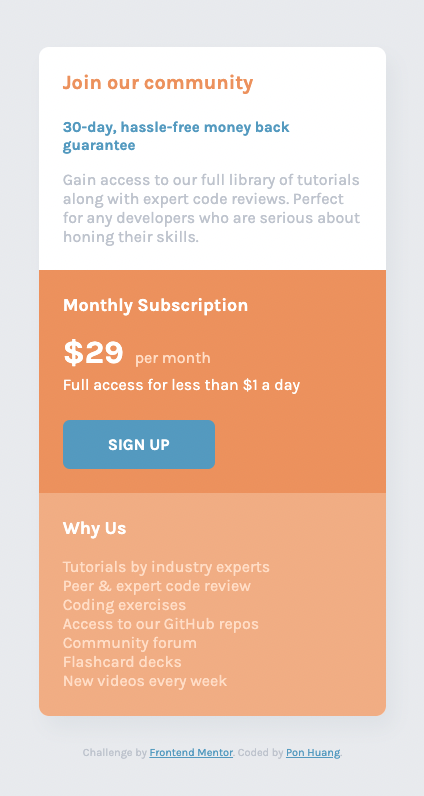
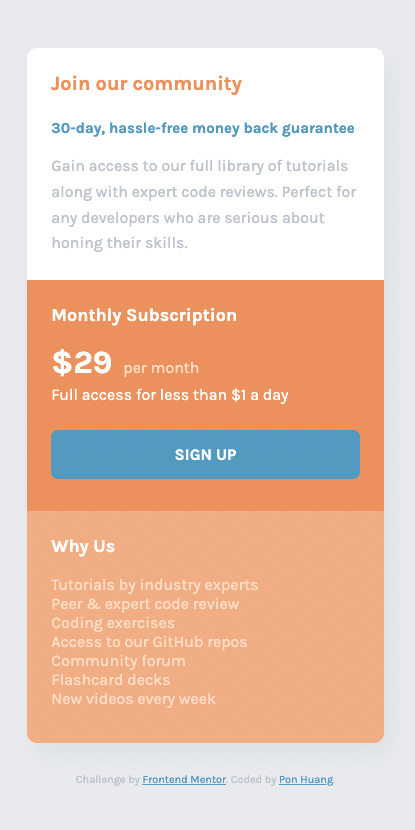
opstimization and btn

Changed region(s): [[0.0578, 0.0603, 0.9253, 0.9045], [0.1735, 0.9347, 0.8096, 0.9648]]

diff --git a/css/style.css b/css/style.css
@@ -76,7 +76,8 @@ body {
   margin-bottom: 1.1rem; }
 
 .description {
-  color: #c5cad3; }
+  color: #c5cad3;
+  line-height: 1.4; }
 
 .title {
   font-size: 1.8rem;
@@ -84,12 +85,14 @@ body {
   margin-bottom: 1.8rem; }
 
 .btn {
-  display: inline-block;
+  all: unset;
+  text-align: center;
+  width: 100%;
   border: none;
   color: #fff;
   text-transform: uppercase;
   background-color: #5fa4c8;
-  padding: 1.5rem 8rem;
+  padding: 1.5rem 0;
   border-radius: 7px;
   font-weight: 700;
   cursor: pointer;
@@ -104,7 +107,7 @@ body {
 /*---------- max-width 720px ----------*/
 @media screen and (max-width: 45em) {
   .container {
-    width: 50vw;
+    max-width: 70vw;
     grid-template-rows: repeat(3, 1fr); }
   .card {
     padding: 2.4rem; }
@@ -112,10 +115,10 @@ body {
       grid-column: 1 / -1; }
     .card:nth-child(3) {
       grid-column: 1 / -1; }
-  .btn {
-    padding: 1.5rem 4.5rem; }
   .heading-h1 {
     font-size: 2rem; }
   .subheading {
     font-size: 1.5rem;
-    margin-bottom: 1.6rem; } }
+    margin-bottom: 1.6rem; }
+  .description {
+    line-height: 1.6; } }

diff --git a/sass/_layout.scss b/sass/_layout.scss
@@ -1,5 +1,6 @@
 .container {
   max-width: 63.5rem;
+
   border-radius: 10px;
   background-color: #fff;
   box-shadow: 7px 12px 20px $color-gray-light-2;
@@ -71,6 +72,7 @@
 
 .description {
   color: $color-gray-light-1;
+  line-height: 1.4;
 }
 
 .title {
@@ -80,12 +82,14 @@
 }
 
 .btn {
-  display: inline-block;
+  all: unset;
+  text-align: center;
+  width: 100%;
   border: none;
   color: #fff;
   text-transform: uppercase;
   background-color: $color-secondary;
-  padding: 1.5rem 8rem;
+  padding: 1.5rem 0;
   border-radius: 7px;
   font-weight: $font-bold;
   cursor: pointer;
@@ -104,7 +108,7 @@
 /*---------- max-width 720px ----------*/
 @media screen and (max-width: 45em) {
   .container {
-    width: 50vw;
+    max-width: 70vw;
     grid-template-rows: repeat(3, 1fr);
   }
   .card {
@@ -118,10 +122,6 @@
     }
   }
 
-  .btn {
-    padding: 1.5rem 4.5rem;
-  }
-
   .heading-h1 {
     font-size: 2rem;
   }
@@ -130,5 +130,9 @@
     font-size: 1.5rem;
 
     margin-bottom: 1.6rem;
+  }
+
+  .description {
+    line-height: 1.6;
   }
 }

diff --git a/index.html b/index.html
@@ -37,7 +37,7 @@
           <h2 class="title">Monthly Subscription</h2>
           <p class="price"><strong> &dollar;29</strong>per month</p>
           <p class="condition">Full access for less than &dollar;1 a day</p>
-          <a class="btn">Sign Up</a>
+          <button class="btn">Sign Up</button>
         </section>
         <section class="card">
           <h2 class="title">Why Us</h2>

diff --git a/README.md b/README.md
@@ -63,7 +63,7 @@ Mobil
 }
 ```
 
-2. When I set grid columns / rows to 50%, and it has text overflow issue. (the content didn't stay inside the padding) Change the value to 1fr and it fixed this problem.
+2.) When I set grid columns / rows to 50%, and it has text overflow issue. (the content didn't stay inside the padding) Change the value to 1fr and it fixed this problem.
 
 ```css
 .container {
@@ -73,9 +73,14 @@ Mobil
 }
 ```
 
-### Continued development
+3.) Use all: unset to make the button works properly in desktop and mobile version. Also we need to give text-align property as well.
 
-Optimize mobile version.
+```css
+.btn {
+  all: unset;
+  text-align: center;
+}
+```
 
 ## Author
 
